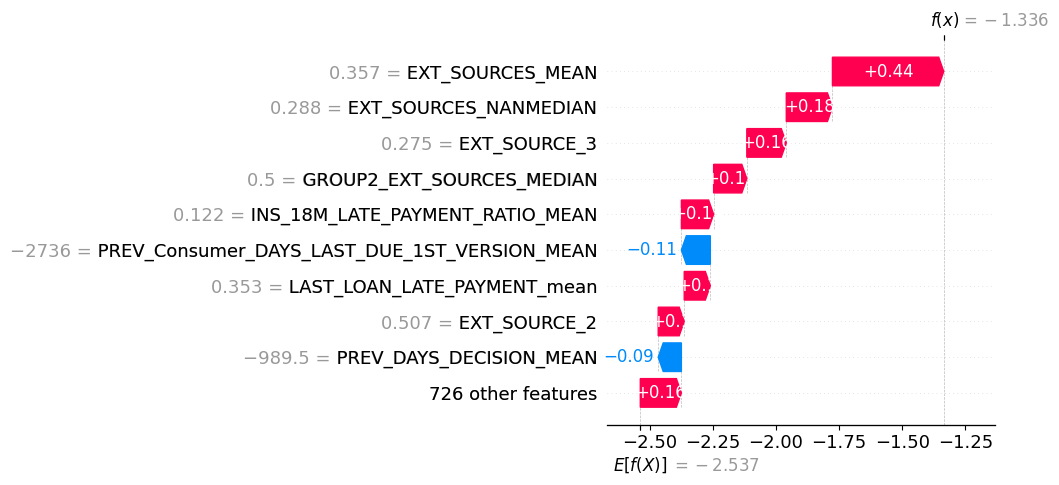
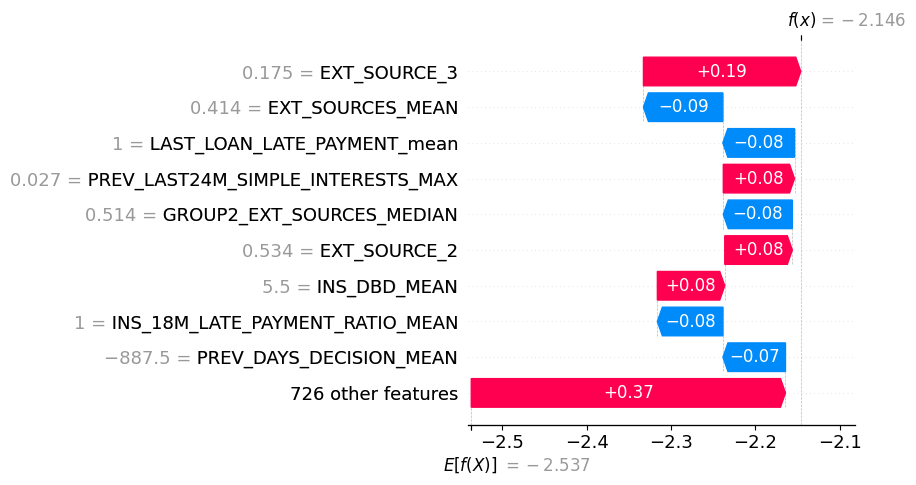
Insignificant changes.

diff --git a/lightgbm/train_best_lightgbm.py b/lightgbm/train_best_lightgbm.py
@@ -15,7 +15,7 @@ from project_tools.scorer import Scorer
 ########################################################################
 # MAIN PARAMETER ZONE
 ########################################################################
-n_sample = 120_000
+n_sample = 280_000
 # MLflow experiment name
 experiment_name = 'lightgbm'
 registered_model_name = f'lightgbm_{n_sample}'
